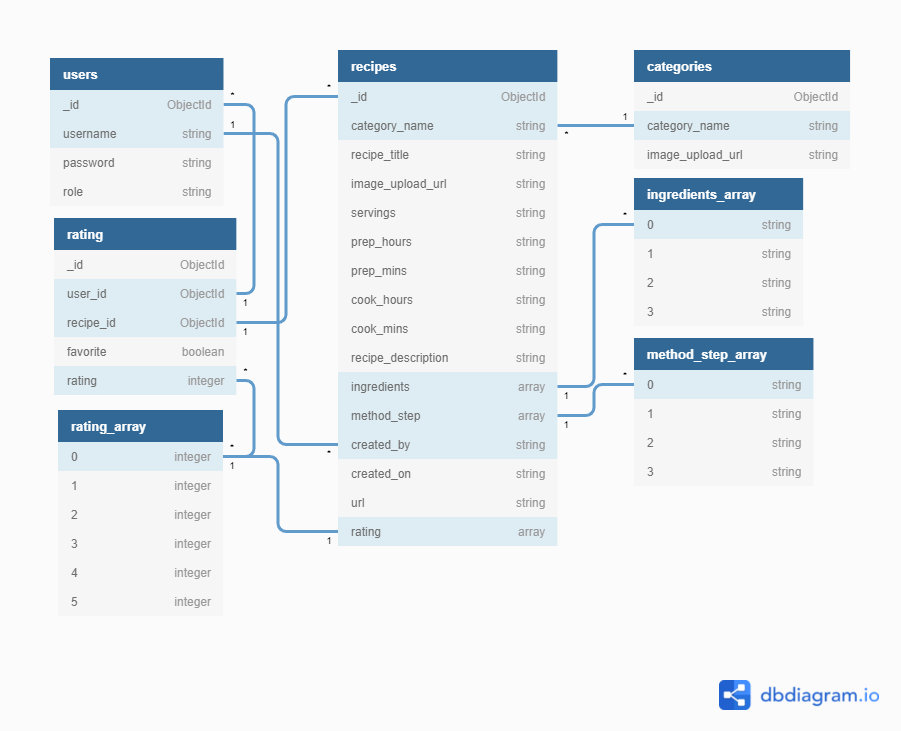
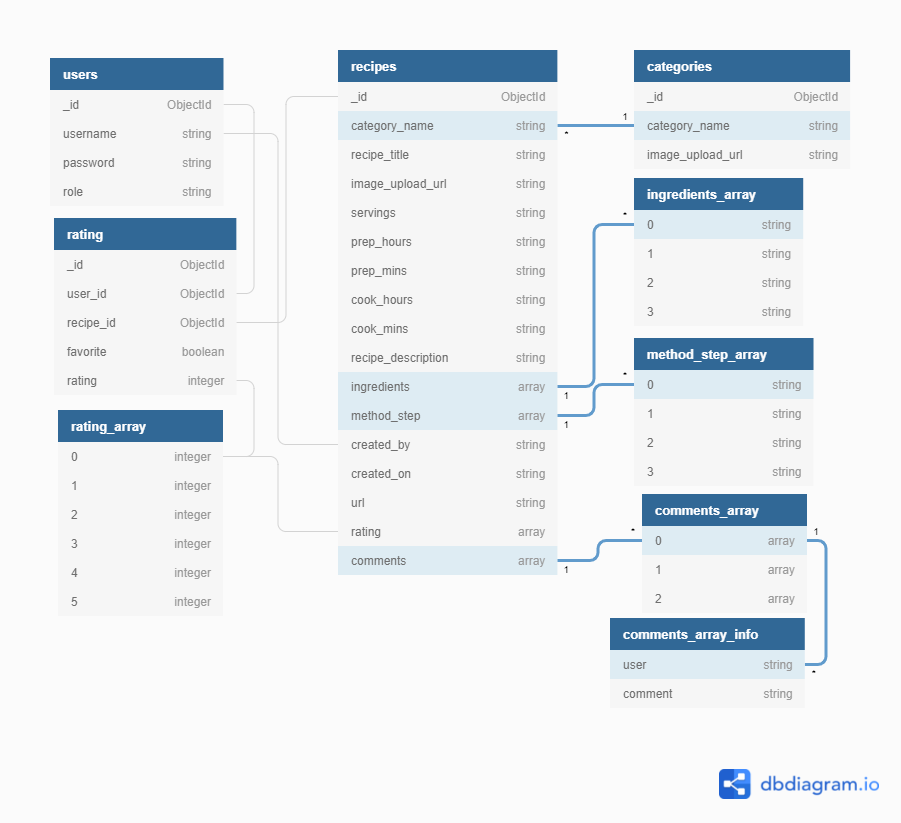
Readme & Testing - updated documentation with user comment functionality notings

diff --git a/README.md b/README.md
@@ -605,6 +605,45 @@ result = mongo.db.recipes.update_one(
 ```
 
 </details>
+
+<details>
+<summary>
+6. Comment on a recipe:
+</summary>
+
+```
+if "comment" in request.json and len(request.json["comment"]) > 0:
+        comment = {
+            "author": session["user"].capitalize(),
+            "text": request.json['comment']
+        }
+        mongo.db.recipes.update_one(
+            {"_id": ObjectId(request.json['recipeId'])},
+            {"$push": {"comments": comment}}
+            )
+```
+
+</details>
+
+<details>
+<summary>
+6. Delete a historic comment on a recipe:
+</summary>
+
+```
+if "comment" in request.json and "recipe" in request.json:
+        index = int(request.json["comment"])
+        mongo.db.recipes.update(
+            {"_id": ObjectId(request.json['recipe'])},
+            {"$unset": {"comments.{i}".format(i=index): None}}
+        )
+        mongo.db.recipes.update(
+            {"_id": ObjectId(request.json['recipe'])},
+            {"$pull": {"comments": None}}
+        )
+```
+
+</details>
 &nbsp;
 
 ## 4. **Technologies Used**

diff --git a/testing.md b/testing.md
@@ -234,7 +234,9 @@ Note: Microsoft released Internet Explorer in 2013 and ceased active development
    - When a user visits the website, the first page they visit displays the latest recipes added to the site and a search function, to browse for specific recipes the user may wish to find.
    - When a user logs in to their account, their profile page displays their favourited recipes and uploaded recipes.
 * **\(US002\)** - As a user I want to see recipe reviews and comments from other users, so I am informed of the best recipes.
-   - *** add if time ***
+   - Users can comment on recipes they view, providing feedback as needed.
+   - Users can delete their own comments.
+   - Admins have ability to delete any comments.
 </details>
 <details>
 <summary>Searching</summary>
